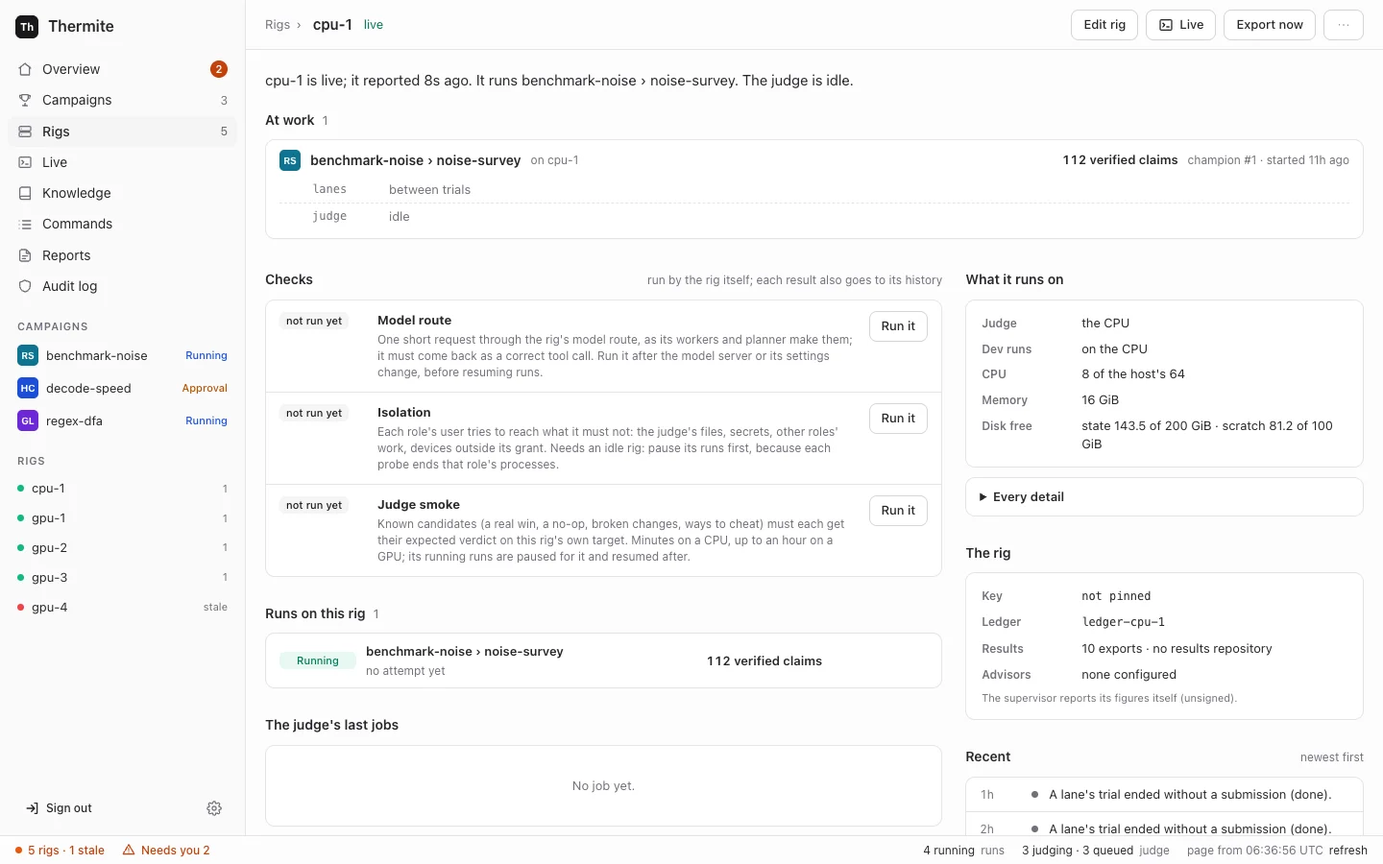
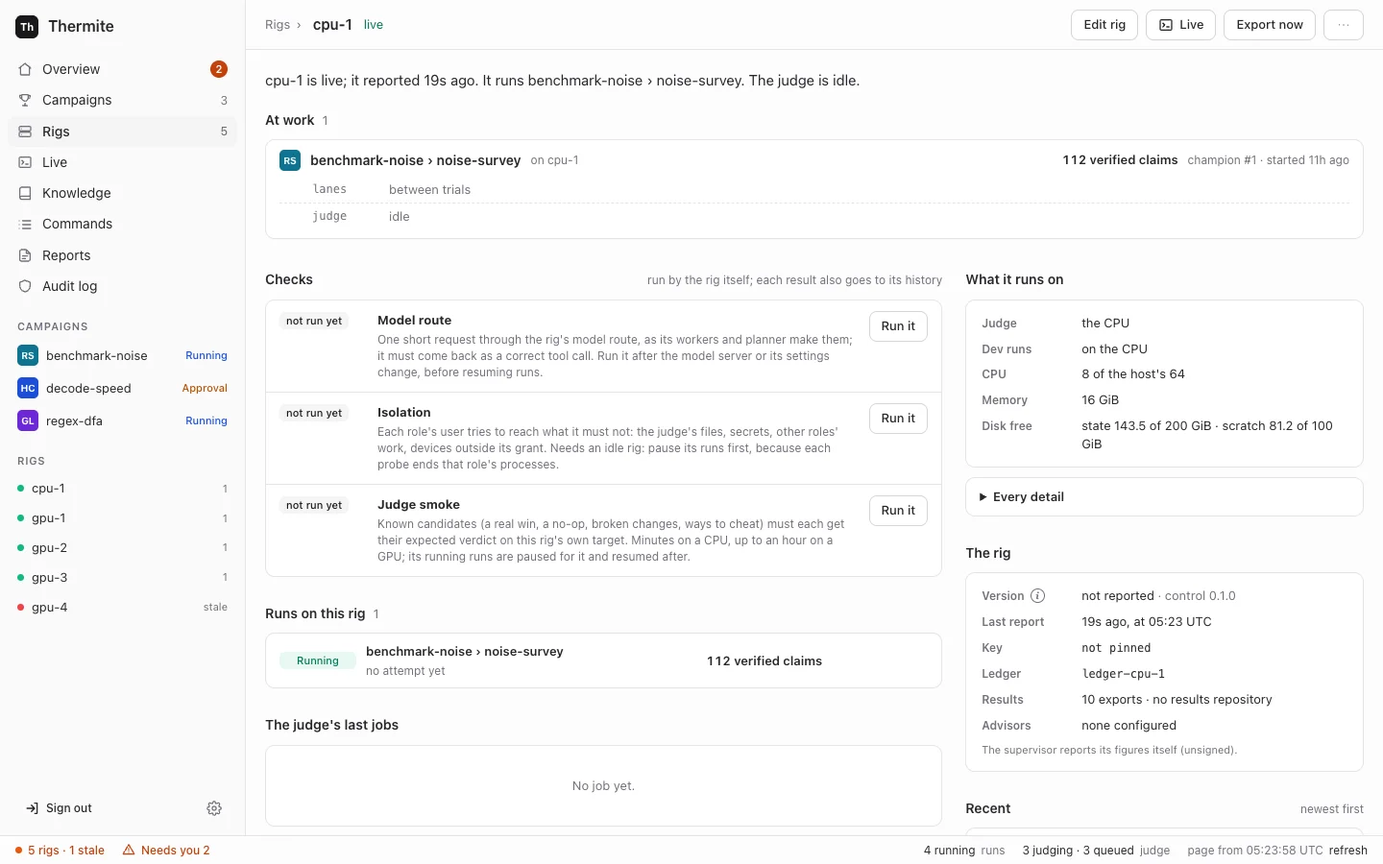
Docs site: the Rigs list, rig pages and RunPod pages, as the code has them
- The Rigs list: runs at work on rigs with a key to accept, a removed
  machine, every Run at work, Progress and Per hour text, a pod not reported
  yet, a pod stopped another way, and the empty page and chips.
- A rig's page: the reporting banner, the RunPod anchors, a failed connection
  to a pod, the version banner while an update runs, the key card, the boxes
  that wait for a full reset, and how long each terminate step may wait. The
  screenshot shows the rig's version and last report.
- RunPod test pods run the CUDA harness or the one-container rig image, which
  each release publishes; the finding about RunPod's variables quotes the code.
- Needs you shows no card for a stopped pod; --promotion on run start; the
  spend limit set from the dashboard; the Rigs list's version column; a RunPod
  rig keeps its image; the images take about 2.5 GB; the harness image's
  packages; control's reach to pods in pull mode; the launch form's idle stop.

diff --git a/docs/_site/src/content/docs/reference/rig-page.md b/docs/_site/src/content/docs/reference/rig-page.md
@@ -14,12 +14,12 @@ Other pages link to these places with the address and the anchor, for example `/
 
 | Anchor | What it is | When the page has it |
 | --- | --- | --- |
-| `#reporting` | The banner for a rig that does not report: stale or offline | The rig is stale or offline, and is not a stopped RunPod rig |
+| `#reporting` | The banner for a rig that does not report: stale or offline | The rig is stale or offline, is not a stopped RunPod rig, and control does not refuse it |
 | `#version` | The banner for the rig's version, or for its last update | Its version is behind or ahead of control's, control refuses it, or an update began in the last day |
 | `#pod` | The pod: its cost, its limits and its lifecycle | The rig was launched on RunPod |
 | `#limits` | The form that changes the spend limit and the idle stop | The same, while the pod exists |
-| `#results` | The results that must leave the pod before it ends | The same |
-| `#hist` | The history, with its filters | The same |
+| `#results` | The results that must leave the pod before it ends | The same, while the pod exists |
+| `#hist` | The history, with its filters | The rig was launched on RunPod |
 
 ## The top
 
@@ -44,7 +44,7 @@ The buttons at the right:
 
 A button that needs typed words stays off until the words are typed exactly. Control checks them again when the form arrives.
 
-The first lines under the title say, in a few sentences: for a RunPod rig, its pod and what it has cost; whether it reports; what runs on it; what its judge does; a check that failed; a key that waits for you.
+The first lines under the title say, in a few sentences: for a RunPod rig, its pod and what it has cost; whether it reports; what runs on it; what its judge does; a check that failed; a key that waits for you; for a RunPod rig, a connection to its pod that failed.
 
 A card after an action says what happened: its words in green, or **Not done.** and the reason.
 
@@ -77,7 +77,8 @@ Control compares the rig's version with its own ([Rig versions](rest-api.md#rig-
 | Ahead | `rig-1 runs Thermite 0.3.0, newer than control's 0.2.0.` | They work together. Update control when you can | None |
 | Refused, older | `Control refuses this rig: its version is too old.` | Both versions and the reason. Control takes none of its reports and sends it no commands. What the page shows is from its last report that control took. How many of its calls control refused, and when the last came. How to fix it | **Update to 0.2.0**, for a rig control can update; **Retire it** |
 | Refused, newer | `Control refuses this rig: its version is too new.` | The same, and to update control to the rig's version or later. The refusal then ends by itself | **Retire it** |
-| Updated | `Updated. It runs Thermite 0.2.0, as control does.` | The steps of the last update | None |
+| Updated | `Updated. It runs Thermite 0.2.0, as control does.`, or `The last update stopped, but it runs Thermite 0.2.0, as control does.` | The steps of the last update | None |
+| Update, version unknown | `The update to 0.2.0 is under way. Control does not know the rig's version.` (or `stopped`) | The notice, and the update's steps | None |
 
 When the update can't come from control, the banner says how to do it:
 
@@ -101,6 +102,8 @@ When the update can't come from control, the banner says how to do it:
 The rig's volumes, tokens, key, ledger, runs and results stay. A trial in progress stops, and the harness plans it again. On a machine the update writes only the two container units: the rig's secrets, keys, volumes and networks stay as they were. If a step fails, the banner shows **The update stopped**, and its steps say why.
 
 ## Blocks
+
+A key that waits for you has a card under the banners, with its fingerprint and **Accept this key**: see [Accept a rig's key](../how-to/operate/accept-a-rig-key.md).
 
 **At work** lists the runs at work now. **Checks** lists the rig's three [checks](rig-checks.md), each with **Run it**; for a refused rig it says `Control sends no command to a refused rig, so its checks can't run. Update it first.` **Runs on this rig** lists every run; for a rig that does not report, or that control refuses, its heading says `as of its last report`. **The judge's last jobs** lists its last 8 jobs.
 
@@ -149,9 +152,9 @@ Five boxes, each with what it does and its button. A box that does not apply now
 | Box | Button | Applies when | Typed words |
 | --- | --- | --- | --- |
 | **Stop** | **Stop the pod** | The pod runs, and no change or full reset is under way | |
-| **Start** | **Start the pod** | The pod is stopped, and no change is under way | |
-| **Restart** | **Restart the pod** | The pod runs, and no change is under way | |
-| **Full reset** | **Start the full reset** | The pod runs, and no change is under way | `reset <rig>` |
+| **Start** | **Start the pod** | The pod is stopped, and no change or full reset is under way | |
+| **Restart** | **Restart the pod** | The pod runs, and no change or full reset is under way | |
+| **Full reset** | **Start the full reset** | The pod runs, and no change or full reset is under way | `reset <rig>` |
 | **Terminate** | **Terminate** | No change or full reset is under way | `terminate <rig>` |
 
 After a button, the page says what began: `Stopping: its runs are paused and its results go out first, then the pod stops.`, `Starting: RunPod starts the pod, and its paused runs resume once it runs.`, `Restarting: the pod stops, then starts again.`, or `Terminating: its runs are paused, and the pod is removed only once every result has left it.` A refusal shows **Not done.** with RunPod's or control's reason, such as `RunPod has no free GPU for pod … now, so the pod stays stopped (…)`. The full reset goes on as for any rig: [Fully reset a rig](../how-to/operate/rig-lifecycle.md#fully-reset-a-rig).
@@ -163,7 +166,7 @@ While a change is under way, a card shows it in words, such as `stopping: waitin
 | Stop | Pause the runs at a safe point. Send the waiting results out of the pod. Wait until they have left the pod (15 minutes at most). Ask RunPod to stop the pod |
 | Start | Ask RunPod to start the pod. Wait for the pod to run. Resume the runs the stop paused |
 | Restart | Ask RunPod to stop the pod. Wait for the pod to stop. Ask RunPod to start it again, and wait for it to run. Resume the runs |
-| Terminate | Pause the runs at a safe point. Wait until no judge job and no command waits on the rig. Make a full export. Wait until every result has left the pod. Ask RunPod to delete the pod and its volume |
+| Terminate | Pause the runs at a safe point. Wait until no judge job and no command waits on the rig (1 hour at most). Make a full export (30 minutes at most). Wait until every result has left the pod (1 hour at most). Ask RunPod to delete the pod and its volume |
 
 What went wrong last, such as `Not terminated: …`, shows in red under them.
 

diff --git a/docs/_site/src/content/docs/reference/rigs-list.md b/docs/_site/src/content/docs/reference/rigs-list.md
@@ -10,7 +10,7 @@ sidebar:
 
 ## The top
 
-The line beside the title counts the rigs, then, when there are any, those that need an update, are stale, are offline or are stopped, then the runs at work. For example: `7 rigs · 2 need an update · 1 stale · 1 offline · 1 stopped · 4 runs at work`. The runs at work are the running runs on rigs that are live or stale: a stale rig may still be at work.
+The line beside the title counts the rigs, then, when there are any, those that need an update, are stale, are offline or are stopped, then the runs at work. For example: `7 rigs · 2 need an update · 1 stale · 1 offline · 1 stopped · 4 runs at work`. The runs at work are the running runs on rigs that are live, stale or have a key to accept: such a rig may still be at work.
 
 The buttons at the right:
 
@@ -31,18 +31,20 @@ The chips above the table narrow it. Each shows how many rigs it holds. They are
 | **On RunPod** | The rig was launched on RunPod |
 | **Stopped** | The state is **Stopped** |
 
+With no rig, the page says `No rig has reported yet.`; a chip with no rig shows `No rig here.`
+
 ## Columns
 
 | Column | What it shows |
 | --- | --- |
 | **State** | A chip: see [States](#states). Its **i** says what each one means |
 | **Rig** | The rig's name, a link to its page |
-| **Where it runs** | `Machine · gpu-host-1`, `Cluster · cluster-1`, `RunPod · EU-RO-1`, `Joined · a machine` or `Joined · a namespace`, or `Set up by you` for a rig in control's rig tokens file or added with `thermite rig add`. Under it, the rig's hardware as it reported it, or a pod's GPUs before its first report |
+| **Where it runs** | `Machine · gpu-host-1` (`gpu-host-1, removed` once the rig was removed there), `Cluster · cluster-1`, `RunPod · EU-RO-1`, `Joined · a machine` or `Joined · a namespace`, or `Set up by you` for a rig in control's rig tokens file or added with `thermite rig add`. Under it, the rig's hardware as it reported it, or a pod's GPUs before its first report |
 | **Version** | The Thermite version of the rig's harness and supervisor: see [Version](#version) |
-| **Run at work** | The running run, a link to its page, with its campaign and its last attempt, such as `q4-gemv · last attempt 4 min ago`. On a rig that does not report, it is grey and says `as of its last report`. With no run at work: `No run at work`, and why (see [A stopped pod](#a-stopped-pod)), how many runs are paused, or `no campaign assigned` |
-| **Progress** | The run at work's progress: `+9.1%` for a hill climb, `4/8 goals` for a goal run, `84 verified claims` for a research run. Grey on a rig that does not report |
+| **Run at work** | The running run, a link to its page, with its campaign and its last attempt, such as `q4-gemv · last attempt 4 min ago`, or `no attempt yet`, and `and 1 more` when more runs are running. On a rig that does not report, it is grey and says `as of its last report` (`as of 12 min ago` for a refused rig). With no run at work: `No run at work`, and why: a stopped pod's reason (see [A stopped pod](#a-stopped-pod)), `not reported yet`, how many runs are paused (`2 paused`), `no run running`, or `no campaign assigned` |
+| **Progress** | The run at work's progress: `+9.1%` for a hill climb, `4/8 goals` for a goal run (`goals not checked yet` before its first check), `84 verified claims` for a research run. Grey on a rig that does not report |
 | **Last report** | How long ago the rig last reported, such as `12 s ago`. Orange when the rig is stale, red when it is offline or refused, with `refused since` under it. `none yet` before the first report |
-| **Per hour** | Only for a rig on RunPod: what the pod costs per hour now, such as `$1.65/h`, and under it what it has cost so far, such as `$9.80 so far`. A stopped pod says `storage only`: RunPod bills only its volume, which control does not count. The column shows only when a rig runs on RunPod |
+| **Per hour** | Only for a rig on RunPod: what the pod costs per hour now, such as `$1.65/h`, and under it what it has cost so far, such as `$9.80 so far`. A stopped pod says `storage only`: RunPod bills only its volume, which control does not count. A pod that RunPod no longer has says `none`, with what it cost `in all`. The column shows only when a rig runs on RunPod |
 
 ## States
 
@@ -66,6 +68,7 @@ The chips above the table narrow it. Each shows how many rigs it holds. They are
 | **update control ›**, red, with `0.3.0 · refused, newer` | Control refuses the rig because its version is too new: control needs the update |
 | `0.2.0`, orange, with `newer than control` | The rig runs a newer version that works with control's |
 | `not reported` | The rig sends no version: control works with it as before |
+| `not reported yet` | A pod on RunPod before its first report |
 
 **needs update** and **update control** open the rig's page at its version banner (`/ui/rigs/<rig>#version`). The update and its steps run there: see [Update to control's version](../how-to/operate/rig-lifecycle.md#update-to-controls-version).
 
@@ -78,6 +81,7 @@ A RunPod rig whose pod is stopped shows `No run at work` and why it stopped:
 | `its idle stop stopped it 2 h ago · a new run wakes it` | The [idle stop](../how-to/install/runpod-rig.md#5-watch-its-cost-and-change-its-limits) stopped the pod. Starting or resuming a run on it starts the pod first |
 | `you stopped it 2 h ago · a new run wakes it` | The owner stopped it |
 | `its spend limit stopped it 2 h ago · raise the limit to start it` | It cost its spend limit. Control refuses to start it until the limit is raised or cleared |
+| `it is stopped · a new run wakes it` | It stopped another way, such as from RunPod's console |
 
 Its **Last report** says `then it stopped` under the time.
 

diff --git a/docs/_site/src/content/docs/how-to/install/own-registry.md b/docs/_site/src/content/docs/how-to/install/own-registry.md
@@ -22,7 +22,7 @@ Control sets [rigs](../../reference/glossary.md) up from images it does not buil
 | Harness | `containers/harness/Containerfile` | CPU rigs |
 | Harness, CUDA | The same file, with `BASE_IMAGE` set to a CUDA image | GPU rigs, and RunPod test pods |
 | Supervisor | `containers/supervisor/Containerfile` | Every rig |
-| One-container rig | `containers/rig/Containerfile`, on the CUDA harness | Rigs on RunPod. [Use a rig image of your own](runpod-rig.md#use-a-rig-image-of-your-own) builds it |
+| One-container rig | `containers/rig/Containerfile`, on the CUDA harness | Rigs on RunPod, and RunPod test pods. [Use a rig image of your own](runpod-rig.md#use-a-rig-image-of-your-own) builds it |
 
 Name them as you like; control takes any full image reference. The examples use `registry.example.com/thermite/` and the first 12 characters of the commit as the tag.
 
@@ -54,7 +54,7 @@ The release workflow builds the published CUDA harness on `docker.io/nvidia/cuda
 
 - **CUDA 12.** The Containerfile notes that CUDA 13 dropped older GPU architectures. RunPod test pods ask for hosts that run CUDA 12.6 or later.
 - **A development image**, with `nvcc`: the GPU smoke check compiles CUDA code on the rig.
-- **Debian or Ubuntu based**, because the build installs its packages with `apt-get` from the base's own package lists: git, tini (the image's entry point), a C and C++ toolchain, CMake, Ninja, ccache, and Python 3 with numpy. Node.js and OpenCode are copied in, so the base needn't have them.
+- **Debian or Ubuntu based**, because the build installs its packages with `apt-get` from the base's own package lists: git, tini (the image's entry point), a C and C++ toolchain, CMake, Ninja, ccache, Python 3 with numpy, and bubblewrap and socat for Claude Code's sandbox. Node.js, OpenCode and the Codex CLI are copied in, so the base needn't have them.
 
 ### Build arguments
 
@@ -64,7 +64,7 @@ The release workflow builds the published CUDA harness on `docker.io/nvidia/cuda
 | `NODE_IMAGE` | All three | Node.js 22 on Debian bookworm, pinned by digest | Where Node.js comes from |
 | `OPENCODE_VERSION` | Harness | `2.0.32` | The OpenCode release the image carries |
 | `CLAUDE_CODE_VERSION` | Harness, supervisor | Empty: no Claude Code | Downloads that Claude Code release into the image, for a [Claude subscription](../models/claude-subscription.md) |
-| `CODEX_VERSION` | Harness | `0.162.1` | The Codex CLI release the image carries, for [agents in Codex](../models/chatgpt-subscription.md#run-the-agents-in-codex). Empty: no Codex CLI, and an image about 450 MB smaller |
+| `CODEX_VERSION` | Harness | `0.162.1` | The Codex CLI release the image carries, for [agents in Codex](../models/chatgpt-subscription.md#run-the-agents-in-codex). Empty: no Codex CLI, and an image about 400 MB smaller |
 | `KUBECTL_VERSION` | Control | `v1.37.1` | The kubectl control uses for clusters. It is checked against a pinned hash, so a different version fails the build |
 | `THERMITE_COMMIT` | All three | Empty: no commit | The source commit the image is built from, which the service reports with its version |
 | `THERMITE_IMAGE_ID` | Harness | Empty | A name for this build, which the harness reports as its image and puts in each build's key, for example `--build-arg THERMITE_IMAGE_ID=$tag` |
@@ -99,7 +99,7 @@ Set these on control, then restart it. With the compose stack, put the first fou
 | `THERMITE_RIG_SUPERVISOR_IMAGE` | The supervisor. Control needs both of these to set rigs up |
 | `THERMITE_RIG_HARNESS_CUDA_IMAGE` | The CUDA harness, for GPU rigs |
 | `THERMITE_RUNPOD_RIG_IMAGE` | The one-container rig image, for rigs on RunPod |
-| `THERMITE_RUNPOD_TEST_IMAGE` | The CUDA harness, as RunPod test pods' default. `compose.yaml` does not pass this one to control: with the compose stack, set it in an override file ([example](one-machine.md#settings-and-override-files)) or type the image into the test form |
+| `THERMITE_RUNPOD_TEST_IMAGE` | The CUDA harness or the one-container rig image, as RunPod test pods' default. `compose.yaml` does not pass this one to control: with the compose stack, set it in an override file ([example](one-machine.md#settings-and-override-files)) or type the image into the test form |
 
 ```sh title=".env (part)"
 THERMITE_RIG_HARNESS_IMAGE=registry.example.com/thermite/thermite-harness:1a2b3c4d5e6f

diff --git a/docs/_site/src/content/docs/explanation/security-model.md b/docs/_site/src/content/docs/explanation/security-model.md
@@ -37,7 +37,7 @@ flowchart LR
 
 - **Runs as** a user other than root. The compose file drops every Linux capability.
 - **Listens on** one port, 8800: the dashboard, the REST API, MCP and `/metrics`. Compose publishes it on `127.0.0.1` only. Rigs on other machines reach it through a reverse proxy with HTTPS that you provide ([Let rigs on other machines reach control](../how-to/install/one-machine.md#let-rigs-on-other-machines-reach-control)).
-- **Reaches** model providers, to list their models; OpenAI, for a ChatGPT sign-in; git hosts, to read a project's commit and file list for the **New campaign** page; your machines over SSH and your clusters' API, to set rigs up and manage them; RunPod's API and its test pods; and the MCP servers in **Settings**, to read their tools and to sign in (an OAuth server's sign-in and token endpoints). It never connects to a running rig: every rig dials out to control. With `compose.lifecycle.yaml`, which is for development only, control also gets the container engine's socket, to restart the compose rigs.
+- **Reaches** model providers, to list their models; OpenAI, for a ChatGPT sign-in; git hosts, to read a project's commit and file list for the **New campaign** page; your machines over SSH and your clusters' API, to set rigs up and manage them; RunPod's API, its test pods, and the pods of rigs launched there, through RunPod's proxy ([Rigs in pull mode](trust.md#rigs-in-pull-mode)); and the MCP servers in **Settings**, to read their tools and to sign in (an OAuth server's sign-in and token endpoints). It connects to no other running rig: every other rig dials out to control. With `compose.lifecycle.yaml`, which is for development only, control also gets the container engine's socket, to restart the compose rigs.
 - **Trusts** a request only with a token, and only for what that token's role may do ([Tokens and roles](../reference/tokens.md)). It takes a rig's report only when the report is signed with the key that control pinned for that rig, and a champion's patch only when its hash matches the rig's signed record.
 - **Holds** every key and sign-in that you add, sealed, MCP servers' keys, client secrets and OAuth sign-ins included; its own signing key; and tokens as hashes, where it can.
 
@@ -104,7 +104,7 @@ On Kubernetes, neither of a rig's pods gets a service-account token. Nothing in 
 
 [Ports, volumes and secret files](../reference/ports-volumes-secrets.md#networks) lists each network and rule.
 
-A **RunPod test pod** runs Thermite's CUDA harness image with a probe in place of the broker, and no agents. The probe checks the platform, starts the broker as a rig would, runs the isolation self-test, and serves what it found on port 8000. Control reads that report through RunPod's public HTTP proxy, at an address with a random token in its path. The report holds names and results only, never the value of a variable. Control removes the pod when the test ends ([Test a GPU on RunPod](../how-to/install/runpod-test.md)).
+A **RunPod test pod** runs Thermite's CUDA harness image, or the one-container rig image, with a probe in place of the broker, and no agents. The probe checks the platform, starts the broker as a rig would, runs the isolation self-test, and serves what it found on port 8000. Control reads that report through RunPod's public HTTP proxy, at an address with a random token in its path. The report holds names and results only, never the value of a variable. Control removes the pod when the test ends ([Test a GPU on RunPod](../how-to/install/runpod-test.md)).
 
 ## Where to read more
 

diff --git a/docs/_site/src/content/docs/how-to/install/runpod-test.md b/docs/_site/src/content/docs/how-to/install/runpod-test.md
@@ -10,14 +10,14 @@ sidebar:
 A test pod is a real RunPod pod. RunPod bills it by the second from the moment it starts, until control removes it. Control removes it when the test is done, but sets no time limit of its own: set **End it after (minutes)** before you start one, so the pod ends even if something goes wrong.
 :::
 
-A test pod tells you whether a [rig](../../reference/glossary.md) could run on RunPod: whether Thermite's harness gets root and the capabilities it needs there, whether the agents can be kept off the judge's GPU, and whether Thermite's isolation self-test passes. Control starts one pod of the CUDA harness image, reads its report, and removes it.
+A test pod tells you whether a [rig](../../reference/glossary.md) could run on RunPod: whether Thermite's harness gets root and the capabilities it needs there, whether the agents can be kept off the judge's GPU, and whether Thermite's isolation self-test passes. Control starts one pod of the CUDA harness image, or of the one-container rig image, reads its report, and removes it.
 
 A test pod is no rig: it runs no campaign. To run one there, see [Run a rig on RunPod](runpod-rig.md).
 
 ## Before you start
 
 - **A RunPod API key** from RunPod's console (Settings, API Keys) that may write. A read-only key reads the account, but starting a pod fails with "RunPod refused the key for this: a read-only key can't start or stop pods".
-- **Thermite's CUDA harness image in a registry RunPod can pull from without a login.** Control passes RunPod no registry credentials. See [Push the images to your own registry](own-registry.md). RunPod places the pod only on hosts whose driver runs CUDA 12.6 or later.
+- **Thermite's CUDA harness image, or the one-container rig image, in a registry RunPod can pull from without a login.** Each release publishes both on `ghcr.io`, such as `ghcr.io/iammrduncan/thermite-harness:0.1.0-cuda` ([Published images](../../reference/harness-image.md#published-images)). Control passes RunPod no registry credentials. To build your own, see [Push the images to your own registry](own-registry.md). RunPod places the pod only on hosts whose driver runs CUDA 12.6 or later.
 - Optional: `THERMITE_RUNPOD_TEST_IMAGE` on control, which fills in the image for you. `compose.yaml` does not pass it to control, so with the compose stack you type the image into the form, or set it in an [override file](one-machine.md#settings-and-override-files).
 - Control needs no public address for a test, only a way to the internet: it reads the pod's report itself, through RunPod's HTTP proxy. The local compose stack is enough.
 
@@ -83,7 +83,7 @@ The card lists the findings in words. A good test reads like this:
 - The GPU device nodes can be given to a group, mode 0660.
 - Landlock ABI *n*: a fenced role's open of a card was refused.
 - /tmp and /dev/shm can be set to 1770.
-- RunPod sets *n* variables: *their names*. With the [one-container rig image](runpod-rig.md) instead: RunPod's variables reach no process, because the image's entry point took them out.
+- RunPod sets *n* variables: *their names*. With the [one-container rig image](runpod-rig.md) instead: RunPod's variables reach no process: the image's entry point took them out.
 - A role's user reads none of RunPod's variables.
 - Outbound HTTPS reached all 6 addresses tried.
 - The isolation self-test passed.

diff --git a/docs/_site/src/content/docs/reference/settings.md b/docs/_site/src/content/docs/reference/settings.md
@@ -35,7 +35,7 @@ The "Secret" column says whether a value is secret: **no**; a **path to a secret
 | `THERMITE_CONTROL_DIR` | path | `/var/lib/thermite-control` | directory with secrets | Control's state: its store (`control.db`, which also holds [Thermite's knowledge base](knowledge-base.md)), its command-signing key pair (`control-signing.key` and `.pub`, made at first start), the secrets key when `THERMITE_CONTROL_SECRETS_KEY_FILE` is not set, the kits written on the **New campaign** page (`kits/`), and the [exports](exports.md#where-control-keeps-them) rigs without a results repository send it (`exports/`) |
 | `THERMITE_CONTROL_PUBKEY_EXPORT` | path | not set | no | A second place to write control's command-signing public key, so that rigs can verify [signed commands](signed-commands.md). The local compose file writes it to a volume the harness reads |
 | `THERMITE_CONTROL_SECRETS_KEY_FILE` | path | `secrets.key` in `THERMITE_CONTROL_DIR`, made on first use | path to a secret | The key that encrypts what control keeps for you: model providers' keys and sign-ins, Git access, GPU cloud keys, machines' SSH keys, cluster kubeconfigs, and MCP servers' keys, client secrets and sign-ins. It must hold a 32-byte key in base64. Without the same key, the stored secrets cannot be read |
-| `THERMITE_CONTROL_STALE_SECONDS` | seconds | `180` | no | A rig that has sent no report for this long shows as stale: **Stale** on **Rigs**, `stale` in the [rig lists](rest-api.md#reporting-stale-and-offline) |
+| `THERMITE_CONTROL_STALE_SECONDS` | seconds | `180` | no | A rig that has sent no report for this long shows as stale: **Stale** on **Rigs**, `stale` in the [rig lists](rest-api.md#reporting-stale-and-offline). A stopped RunPod pod shows **Stopped** on **Rigs** instead |
 | `THERMITE_CONTROL_OFFLINE_SECONDS` | seconds | `900` | no | A rig that has sent no report for this long is `offline` in the rig lists of the REST API, MCP and `thermite rig list`, and on its page, and **Offline** on **Rigs**. A value below `THERMITE_CONTROL_STALE_SECONDS` counts as that value |
 | `THERMITE_CONTROL_SESSION_DAYS` | days | `30` | no | How long an unused dashboard sign-in lasts |
 
@@ -332,6 +332,7 @@ The smoke and acceptance scripts in `scripts/` read these. They are not settings
 | `MINUTES`, `PACE_SECONDS`, `SEEDS` | `125`, `120`, two built-in pages | The research long run (`scripts/research-longrun.mjs`): its length in minutes, the wait at the start of each trial in seconds, and its seed pages as comma-separated URLs |
 | `THERMITE_FAKE_CLAUDE` | not set | `1`: lets the stand-in for Claude Code in the Claude Code acceptance's test image run. Without it, or a marker file in that image, the stand-in refuses to run |
 | `THERMITE_FAKE_CODEX` | not set | `1`: lets the stand-in for the Codex CLI in the Codex acceptance's test image run. Without it, or a marker file in that image, the stand-in refuses to run |
+
 ## Build arguments
 
 The images take these build arguments. [Harness image](harness-image.md) says what each image holds.

diff --git a/docs/_site/src/content/docs/how-to/campaigns/decide-what-waits.md b/docs/_site/src/content/docs/how-to/campaigns/decide-what-waits.md
@@ -34,7 +34,7 @@ The count also shows beside **Overview** in the sidebar, and as **Needs you** in
 | **Not possible?** | End this campaign as not possible? | The [harness](../../reference/glossary.md), the rig's container that holds the judge, proposes that a goal campaign's goals can't be reached | **End it: not possible**, **Keep going** |
 | **New key** | Accept this rig's new report key? | A rig reports with a key control has not pinned | **Accept this key** |
 | **Wipe** | Wipe this rig's state? | A full reset you started is ready for its last step | **Confirm the wipe**, **Cancel the reset** |
-| **Not reporting** | This rig stopped reporting, or, for a rig that never reported, This rig has not reported yet | A rig has sent no report for a while. A new rig whose first key waits for you shows under **New key** instead | **Open the rig** |
+| **Not reporting** | This rig stopped reporting, or, for a rig that never reported, This rig has not reported yet | A rig has sent no report for a while. A new rig whose first key waits for you shows under **New key** instead. A rig on RunPod whose pod is stopped shows no card: it can't report while stopped | **Open the rig** |
 
 ### Promotions
 
@@ -44,7 +44,7 @@ When the judge confirms that a change is better, the run's rule decides what hap
 - **ask me every time** (`owner_approval`): it waits for you as **Your decision**.
 - **the rig's default**: the rule on the rig's **Edit rig** page, under **3 · When a change becomes the champion**: **Automatically** unless changed, or **Ask me for each change**.
 
-You choose a run's rule with **When a change is confirmed better**, on the **New campaign** page or under **More options** in a campaign's **Start a run** panel, or with `--promotion` on `thermite assign`. The run's **Overview** tab shows the rule in force, in the block **The run**, as **Promotion**: `Automatic when the judge confirms; audits and big gains still wait for you`, `Only with your approval`, or `The rig's default (set where the rig is deployed)`.
+You choose a run's rule with **When a change is confirmed better**, on the **New campaign** page or under **More options** in a campaign's **Start a run** panel, or with `--promotion` on `thermite assign` or `thermite run start` (`promotion` over REST and MCP's `start_run`). The run's **Overview** tab shows the rule in force, in the block **The run**, as **Promotion**: `Automatic when the judge confirms; audits and big gains still wait for you`, `Only with your approval`, or `The rig's default (set where the rig is deployed)`.
 
 **Make it the champion** makes the change the next champion: agents start their next work from it. If the champion changed while the change waited, the judge first tests it again against the new champion. If the agent declared flaws, approving accepts them, and the record shows your name. **Reject it** keeps the change from becoming the champion, and the record shows that you rejected it.
 

diff --git a/docs/_site/src/content/docs/reference/limits-and-pacing.md b/docs/_site/src/content/docs/reference/limits-and-pacing.md
@@ -31,7 +31,7 @@ Thermite's limits are of four kinds. Only a cap can stop a run's work, and only 
 | `THERMITE_RESEARCH_MAX_MB` | The harness's settings | None | A run's fetches are refused, in any mode: `the corpus is full (<n> MiB archived)`. Its other tools go on |
 | Turns per trial (`max_turns`) | **Edit rig**, or `THERMITE_MAX_TURNS` | None | One trial ends after that many model replies. The Codex CLI does not report its replies, so in Codex each message and each tool call counts as one. The lane's next trial starts afresh |
 | A RunPod test's stop time (`stop_after_minutes`) | **End it after (minutes)** on the test pod form, REST or MCP | None | The test pod is removed. At least 5 minutes. A test spends money: see [Test a GPU on RunPod](../how-to/install/runpod-test.md) |
-| A RunPod rig's spend limit (`spend_limit_usd`) | The launch, or the rig's limits later, over REST, MCP or the command line | None | Control stops the pod, its results sent out first: its runs are paused, its GPU is no longer billed and its volume stays. A start is refused until the limit is raised or cleared. See [Rigs on a GPU cloud](rest-api.md#rigs-on-a-gpu-cloud) |
+| A RunPod rig's spend limit (`spend_limit_usd`) | **Launch on RunPod**, or **Change the spend limit or the idle stop** on the rig's page; or the launch and the rig's limits over REST, MCP or the command line | None | Control stops the pod, its results sent out first: its runs are paused, its GPU is no longer billed and its volume stays. A start is refused until the limit is raised or cleared. See [Rigs on a GPU cloud](rest-api.md#rigs-on-a-gpu-cloud) |
 | A RunPod rig's idle stop (`idle_stop_minutes`) | The same | None | When no run has been at work on the rig for that many minutes (no run running, or every run paused, blocked or finished), control stops the pod as for the spend limit. At least 5 minutes. Assigning or resuming a run starts the pod again. The dashboard's launch form fills in 30 minutes, which the owner can change or clear; the REST API, MCP and the command line have no default. See [When a rig is idle](rest-api.md#when-a-rig-is-idle) |
 
 - **A paused run waits.** The judge works only on running runs, so a paused run's queued judge jobs stay queued until it is resumed.

diff --git a/docs/_site/src/content/docs/reference/compatibility.md b/docs/_site/src/content/docs/reference/compatibility.md
@@ -94,7 +94,7 @@ The release workflow builds the arm64 images under emulation, on amd64 runners; 
 
 ## Control and rig versions
 
-Control, each rig's harness and each rig's supervisor report their Thermite version, the commit their image was built from, and their protocol: the version of the contract between control and a rig. Control compares each rig's with its own. The REST API, MCP's `list_rigs` and `thermite rig list` show a rig as `behind` when it runs an older version that control still works with, with a notice to update its images. [Rig versions](rest-api.md#rig-versions) gives every field and message. On the dashboard, a rig's page shows its version, and a banner when it is behind, ahead or refused, with **Update to** control's version for a rig control set up ([A rig's page](rig-page.md#the-version-banner)).
+Control, each rig's harness and each rig's supervisor report their Thermite version, the commit their image was built from, and their protocol: the version of the contract between control and a rig. Control compares each rig's with its own. The REST API, MCP's `list_rigs` and `thermite rig list` show a rig as `behind` when it runs an older version that control still works with, with a notice to update its images. [Rig versions](rest-api.md#rig-versions) gives every field and message. On the dashboard, **Rigs** shows each rig's version, with **needs update** when it is behind or refused ([The Rigs list](rigs-list.md#version)), and a rig's page shows its version and a banner when it is behind, ahead or refused, with **Update to** control's version for a rig control set up ([A rig's page](rig-page.md#the-version-banner)).
 
 Control can move a rig it set up, on a machine or a cluster, onto the images it now deploys (**Update to** control's version on the rig's page; on a cluster, **Update to these images** too); joined rigs keep their images ([goal 035](https://github.com/iammrduncan/thermite/blob/main/docs/plan/goals/035-rig-upgrades.goal)).
 

diff --git a/docs/_site/src/content/docs/how-to/install/one-machine.md b/docs/_site/src/content/docs/how-to/install/one-machine.md
@@ -12,7 +12,7 @@ This guide sets Thermite up to stay on one computer: control and one rig run as 
 
 ## Before you start
 
-- A computer running Linux or macOS, with a few CPU cores, a few gigabytes of free memory, and disk space for the images (about 2 GB) and for what your projects build.
+- A computer running Linux or macOS, with a few CPU cores, a few gigabytes of free memory, and disk space for the images (about 2.5 GB) and for what your projects build.
 - **Docker** with Docker Compose, or **Podman** with `podman compose` or podman-compose. On a Mac, start Podman's virtual machine first (`podman machine start`).
 - `curl`, and access to `github.com` and `ghcr.io`, where the release and its images are.
 
@@ -206,7 +206,8 @@ The dashboard is then at `http://127.0.0.1:8801/ui`. Inside the stack, control k
 After an update, run the rig's **Judge smoke** check ([Check a rig](../operate/check-a-rig.md)). This updates only the local stack. Rigs elsewhere keep the images they run:
 
 - a rig that control set up, on a machine or a cluster, moves onto new images from its page, with **Update to** control's version. Control deploys the new release's images once it runs from the new `compose.yaml`, unless `.env` names other images ([Move a rig onto new images](../operate/rig-lifecycle.md#move-a-rig-onto-new-images));
-- a rig you joined yourself can't be moved from control yet ([goal 035](https://github.com/iammrduncan/thermite/blob/main/docs/plan/goals/035-rig-upgrades.goal)).
+- a rig you joined yourself can't be moved from control yet ([goal 035](https://github.com/iammrduncan/thermite/blob/main/docs/plan/goals/035-rig-upgrades.goal));
+- a rig on RunPod keeps its image: control can't move a pod onto another one. Terminate it and launch a new rig, which runs the new release's rig image ([Run a rig on RunPod](runpod-rig.md)).
 
 ## Let rigs on other machines reach control
 

diff --git a/docs/_site/src/content/docs/reference/known-limits.md b/docs/_site/src/content/docs/reference/known-limits.md
@@ -43,6 +43,8 @@ Thermite never ends research by default. A hill climb runs until you pause it, a
 
 So with a paid model key, the agents spend for as long as the campaign runs. Before you give a rig a paid key, set a stop time or a budget ([Set a budget or a stop time](../how-to/campaigns/budget-and-stop-time.md)). Also set a spending limit with your model provider: the contract's model spend limit counts only the workers' trials, and only on a rig that has token prices.
 
+The dashboard's RunPod launch form fills in an idle stop of 30 minutes, which you can change or clear; it stops the pod only when no run is at work ([Run a rig on RunPod](../how-to/install/runpod-rig.md)).
+
 **Removed by:** no goal. It is a decision: [Why Thermite runs until the job is done](../explanation/runs-until-done.md) says why.
 
 ## Timing on RunPod is noisier
